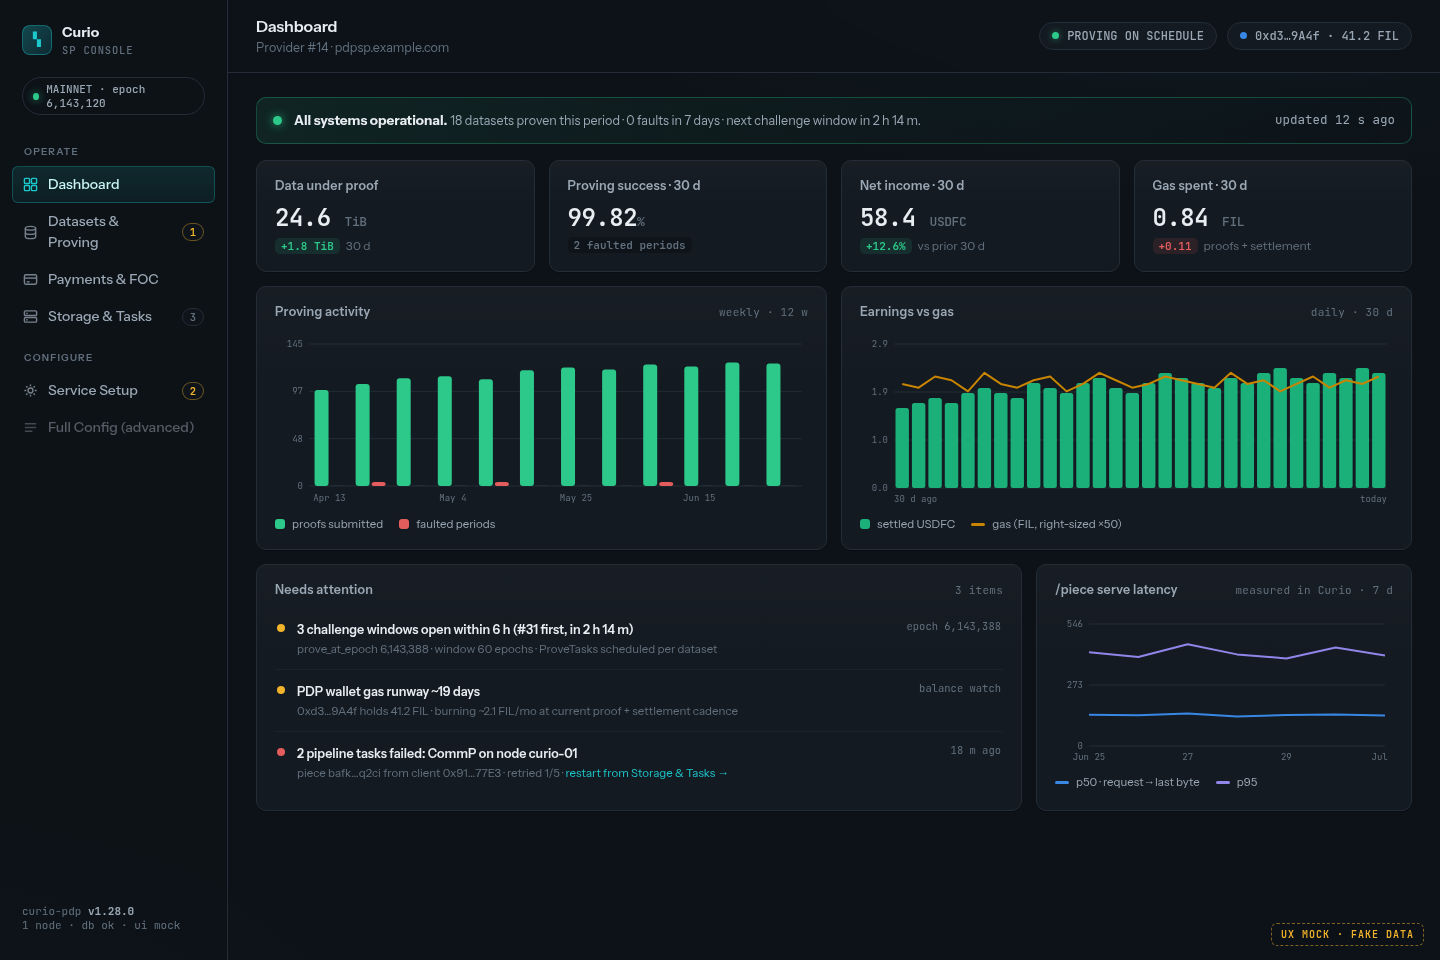
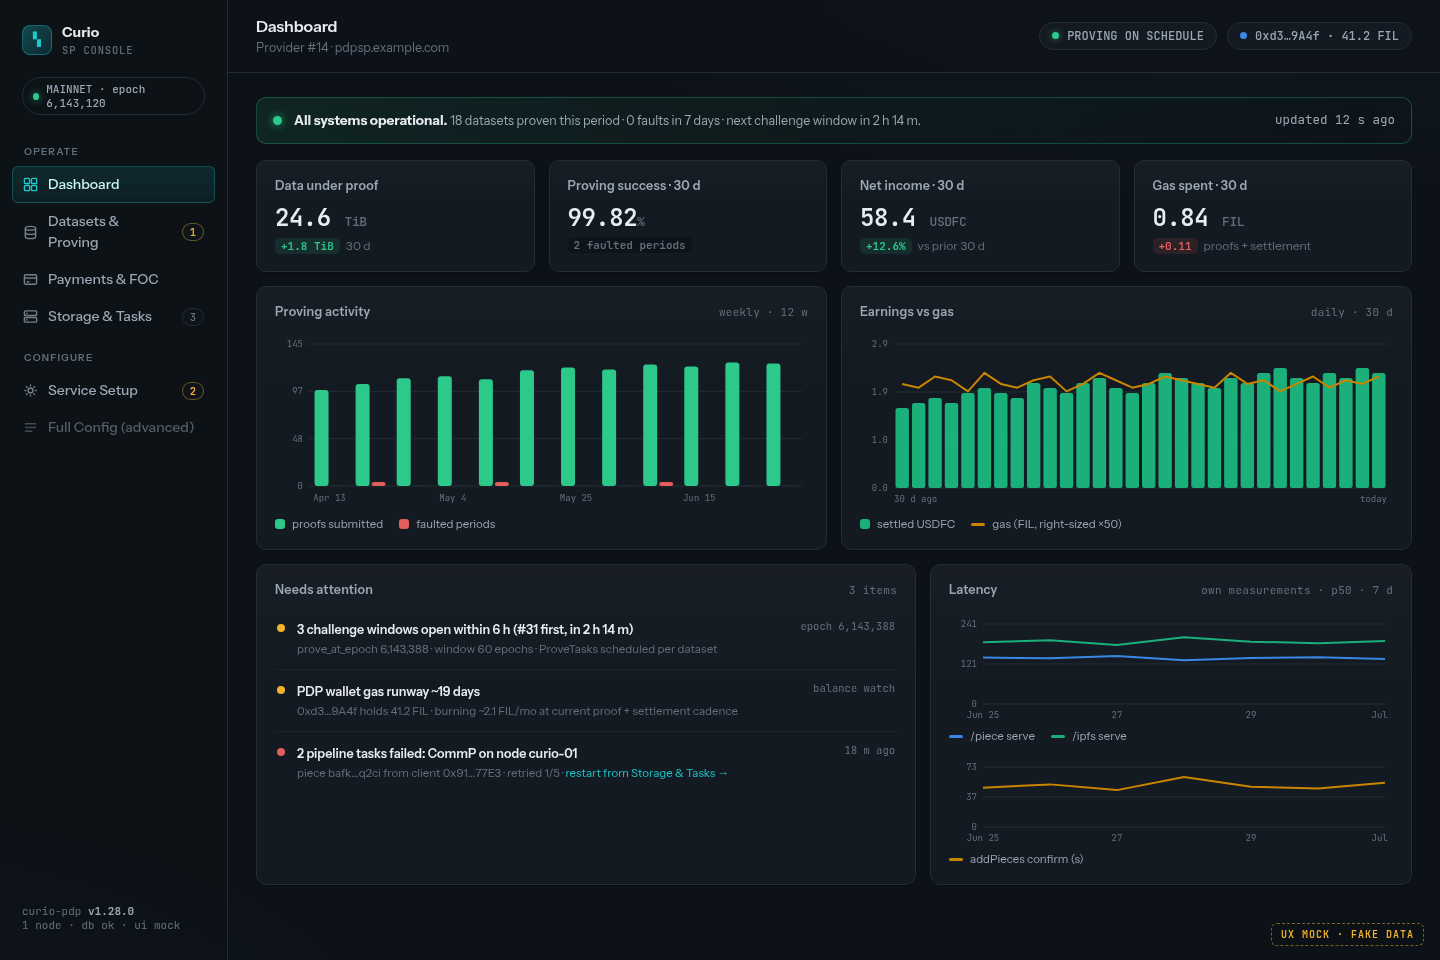
Dashboard latency: three own-measured durations (/piece, /ipfs serve; addPieces confirm)

diff --git a/mock/index.html b/mock/index.html
@@ -343,9 +343,11 @@ code.k{background:var(--inset); border:1px solid var(--line); border-radius:4px;
           </div>
         </div>
         <div class="card">
-          <h3>/piece serve latency <span class="hint">measured in Curio · 7 d</span></h3>
+          <h3>Latency <span class="hint">own measurements · p50 · 7 d</span></h3>
           <div class="chartbox" id="ch-lat"></div>
-          <div class="legend"><span><em class="line" style="background:var(--series-1)"></em>p50 · request→last byte</span><span><em class="line" style="background:var(--series-4)"></em>p95</span></div>
+          <div class="legend" style="margin-top:6px"><span><em class="line" style="background:var(--series-1)"></em>/piece serve</span><span><em class="line" style="background:var(--series-2)"></em>/ipfs serve</span></div>
+          <div class="chartbox" id="ch-addp" style="margin-top:12px"></div>
+          <div class="legend" style="margin-top:6px"><span><em class="line" style="background:var(--series-3)"></em>addPieces confirm (s)</span></div>
         </div>
       </div>
     </section>
@@ -602,8 +604,9 @@ const PROOFS = [98,104,110,112,109,118,121,119,124,122,126,125];
 const FAULTS = [0,1,0,0,2,0,0,0,1,0,0,0];
 const EARN30 = [1.6,1.7,1.8,1.7,1.9,2.0,1.9,1.8,2.1,2.0,1.9,2.1,2.2,2.0,1.9,2.1,2.3,2.2,2.1,2.0,2.2,2.1,2.3,2.4,2.2,2.1,2.3,2.2,2.4,2.3];
 const GAS30  = [.028,.027,.030,.029,.026,.031,.028,.027,.029,.030,.026,.028,.031,.029,.027,.028,.030,.029,.028,.027,.031,.028,.029,.026,.028,.030,.027,.029,.028,.030];
-const LAT_P50 = [140,138,145,132,139,141,136];
-const LAT_P95 = [420,398,455,410,392,441,405];
+const LAT_PIECE = [140,138,145,132,139,141,136];
+const LAT_IPFS  = [186,192,178,201,188,183,190];
+const LAT_ADDP  = [48,52,45,61,49,47,54];
 const PATHS = [
   {name:'/data/pdp-a', type:'store',  used:14.2, cap:16.0, pieces:812, ok:true},
   {name:'/data/pdp-b', type:'store',  used:9.1,  cap:16.0, pieces:604, ok:true},
@@ -701,7 +704,9 @@ function lines(el, labels, series, colors, names, unit, h=150){
 function renderDashCharts(){
   groupedBars(document.getElementById('ch-proving'), WEEKS, PROOFS, FAULTS, 'var(--good)', 'var(--bad)', 'proofs', 'faults');
   barsPlusLine(document.getElementById('ch-earn'), EARN30, GAS30.map(g=>g*50), 'var(--series-2)', 'var(--series-3)');
-  lines(document.getElementById('ch-lat'), ['Jun 25','26','27','28','29','30','Jul 1'], [LAT_P50, LAT_P95], ['var(--series-1)','var(--series-4)'], ['p50','p95'], 'ms');
+  const days7 = ['Jun 25','26','27','28','29','30','Jul 1'];
+  lines(document.getElementById('ch-lat'), days7, [LAT_PIECE, LAT_IPFS], ['var(--series-1)','var(--series-2)'], ['/piece','/ipfs'], 'ms', 108);
+  lines(document.getElementById('ch-addp'), days7, [LAT_ADDP], ['var(--series-3)'], ['addPieces confirm'], 's', 88);
 }
 
 function provePill(st){

diff --git a/PRD.md b/PRD.md
@@ -90,7 +90,7 @@ Legend: ✅ = RPC/data exists today · 🔶 = derivable from existing tables, ne
 | KPI: gas 30d | receipts of proof + settlement txs we sent (`message_waits_eth`) | 🔶 |
 | Proofs vs faults weekly chart | `pdp_proving_history` | 🔴 |
 | Earnings vs gas daily chart | same sources as KPIs | 🔴 |
-| Serve latency p50/p95 | **Own data only:** `/piece` (and `/ipfs`) request→last-byte histograms in our handlers, plus addPieces tx confirmation time (task start → receipt). Client-perceived network latency stays external (dealbot), out of scope. | 🔴 (phase 2) |
+| Latency (three durations) | **Own data only:** `/piece` and `/ipfs` request→last-byte histograms in our handlers, plus addPieces tx confirmation time (task start → receipt). Shown as two mini-charts (serve in ms; addPieces in s — different scales, never one axis). Client-perceived network latency stays external (dealbot), out of scope. | 🔴 (phase 2) |
 | Needs-attention list | alerts framework + upcoming `prove_at_epoch` + failed tasks + wallet runway | 🔶 |
 
 ## A§2 Datasets & Proving